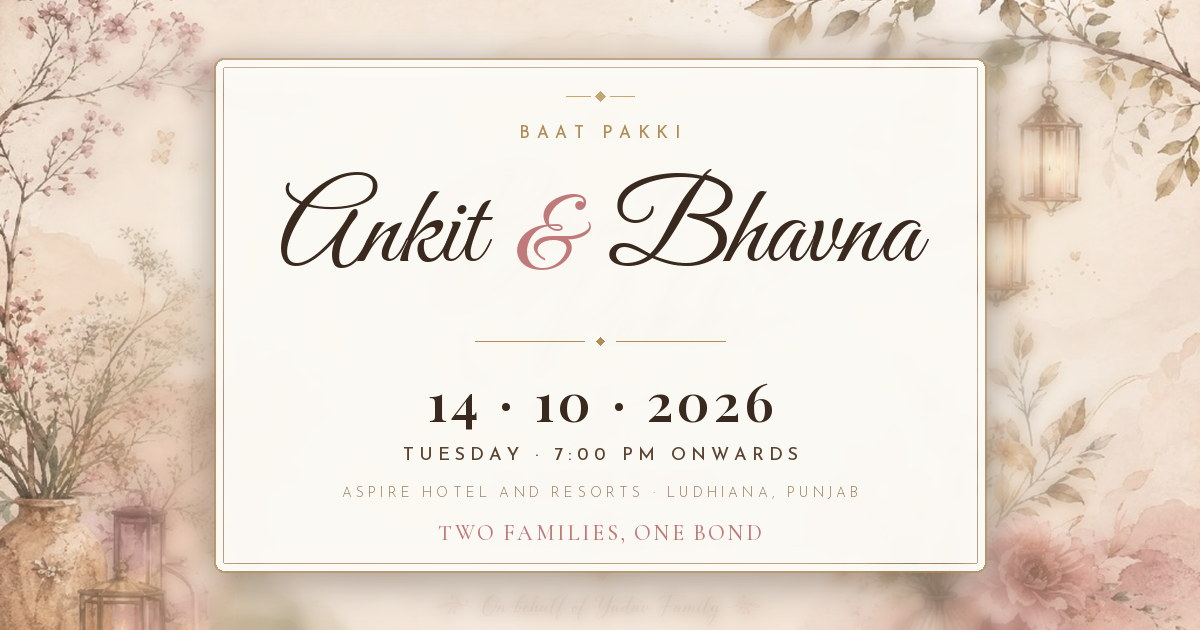
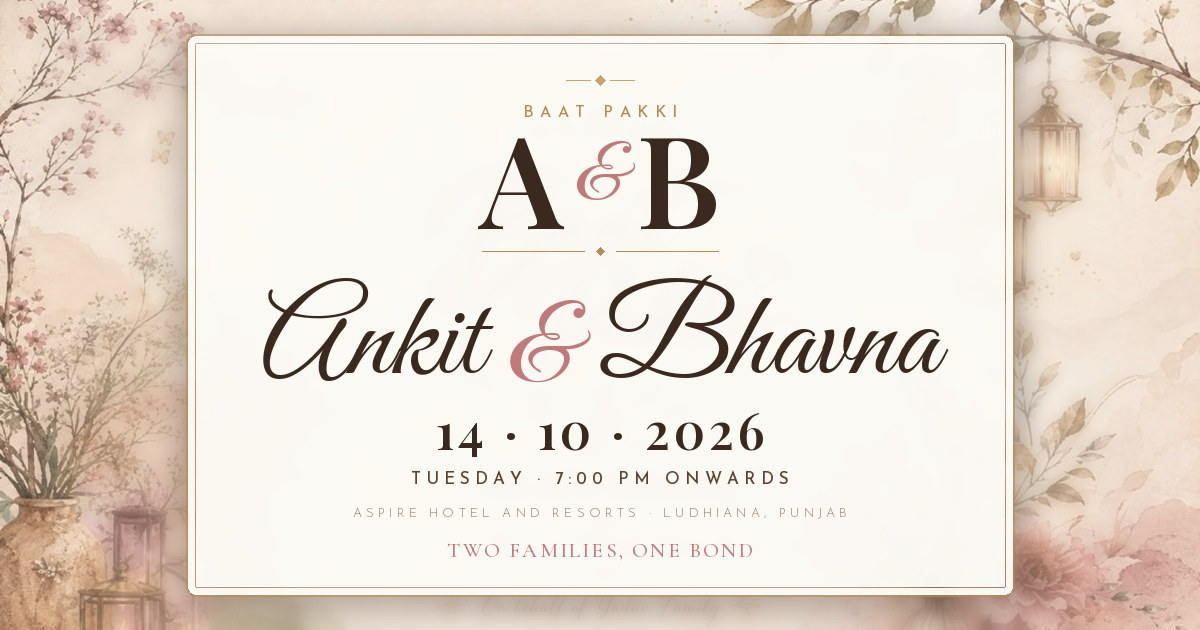
feat(og): add A & B monogram as the hero of the link previews
Promotes the monogram from the 180x180 apple-touch-icon onto the OG cards
themselves, sitting above the script names. Two initials keep their weight
at the ~400px width a WhatsApp preview renders at, where the thin strokes
of the full script names start to fade. The names stay directly beneath so
nothing is lost.

Initials derive from the first letter of each name in src/config/invite.ts
rather than being hardcoded, so the monogram follows a config change.

Spacing is now measured from real glyph extents rather than point sizes.
The 'lm' anchor sits at the middle of the ascender-to-descender box, not
the middle of the ink, and Great Vibes throws flourishes well outside its
em box - so nominal row heights let the divider rule cut straight through
the monogram and the script ascenders. stack() now takes measured heights
and each row re-centres itself on its own ink.

The square card swaps its stacked Ankit / & / Bhavna column for the
monogram plus a single names line, matching the wide card's hierarchy.

og:image:alt and twitter:image:alt updated to name the monogram.

Changed region(s): [[0.1233, 0.0302, 0.8633, 0.9952]]

diff --git a/dist/index.html b/dist/index.html
@@ -31,14 +31,14 @@
     <meta property="og:image:type" content="image/jpeg" />
     <meta property="og:image:width" content="1200" />
     <meta property="og:image:height" content="630" />
-    <meta property="og:image:alt" content="Baat Pakki — Ankit &amp; Bhavna, 14 October 2026, 7 PM onwards at Aspire Hotel and Resorts, Ludhiana" />
+    <meta property="og:image:alt" content="Baat Pakki — A &amp; B, Ankit &amp; Bhavna, 14 October 2026, 7 PM onwards at Aspire Hotel and Resorts, Ludhiana" />
     <!-- Square second image — several WhatsApp/Android clients prefer a 1:1 thumbnail -->
     <meta property="og:image" content="https://bhavna-yadav-ankit-yadav.invitingyou.top/og-baat-pakki-800x800.jpg" />
     <meta property="og:image:secure_url" content="https://bhavna-yadav-ankit-yadav.invitingyou.top/og-baat-pakki-800x800.jpg" />
     <meta property="og:image:type" content="image/jpeg" />
     <meta property="og:image:width" content="800" />
     <meta property="og:image:height" content="800" />
-    <meta property="og:image:alt" content="Baat Pakki — Ankit &amp; Bhavna wedding, 14 October 2026" />
+    <meta property="og:image:alt" content="Baat Pakki — A &amp; B, the wedding of Ankit &amp; Bhavna on 14 October 2026" />
     <meta property="og:updated_time" content="2026-09-26T00:00:00+05:30" />
 
     <!-- Twitter / X -->
@@ -48,7 +48,7 @@
     <meta name="twitter:title" content="Ankit &amp; Bhavna • 14 October 2026 • Aspire Hotel, Ludhiana" />
     <meta name="twitter:description" content="Two families, one bond. Join Ankit &amp; Bhavna on Tuesday, 14th October 2026, 7:00 PM onwards at Aspire Hotel and Resorts, Ludhiana." />
     <meta name="twitter:image" content="https://bhavna-yadav-ankit-yadav.invitingyou.top/og-baat-pakki-1200x630.jpg" />
-    <meta name="twitter:image:alt" content="Baat Pakki — Ankit &amp; Bhavna, 14 October 2026" />
+    <meta name="twitter:image:alt" content="Baat Pakki — A &amp; B, Ankit &amp; Bhavna, 14 October 2026" />
     <meta name="twitter:url" content="https://bhavna-yadav-ankit-yadav.invitingyou.top/" />
 
     <!-- Additional WhatsApp-friendly / SEO tags -->

diff --git a/index.html b/index.html
@@ -31,14 +31,14 @@
     <meta property="og:image:type" content="image/jpeg" />
     <meta property="og:image:width" content="1200" />
     <meta property="og:image:height" content="630" />
-    <meta property="og:image:alt" content="Baat Pakki — Ankit &amp; Bhavna, 14 October 2026, 7 PM onwards at Aspire Hotel and Resorts, Ludhiana" />
+    <meta property="og:image:alt" content="Baat Pakki — A &amp; B, Ankit &amp; Bhavna, 14 October 2026, 7 PM onwards at Aspire Hotel and Resorts, Ludhiana" />
     <!-- Square second image — several WhatsApp/Android clients prefer a 1:1 thumbnail -->
     <meta property="og:image" content="https://bhavna-yadav-ankit-yadav.invitingyou.top/og-baat-pakki-800x800.jpg" />
     <meta property="og:image:secure_url" content="https://bhavna-yadav-ankit-yadav.invitingyou.top/og-baat-pakki-800x800.jpg" />
     <meta property="og:image:type" content="image/jpeg" />
     <meta property="og:image:width" content="800" />
     <meta property="og:image:height" content="800" />
-    <meta property="og:image:alt" content="Baat Pakki — Ankit &amp; Bhavna wedding, 14 October 2026" />
+    <meta property="og:image:alt" content="Baat Pakki — A &amp; B, the wedding of Ankit &amp; Bhavna on 14 October 2026" />
     <meta property="og:updated_time" content="2026-09-26T00:00:00+05:30" />
 
     <!-- Twitter / X -->
@@ -48,7 +48,7 @@
     <meta name="twitter:title" content="Ankit &amp; Bhavna • 14 October 2026 • Aspire Hotel, Ludhiana" />
     <meta name="twitter:description" content="Two families, one bond. Join Ankit &amp; Bhavna on Tuesday, 14th October 2026, 7:00 PM onwards at Aspire Hotel and Resorts, Ludhiana." />
     <meta name="twitter:image" content="https://bhavna-yadav-ankit-yadav.invitingyou.top/og-baat-pakki-1200x630.jpg" />
-    <meta name="twitter:image:alt" content="Baat Pakki — Ankit &amp; Bhavna, 14 October 2026" />
+    <meta name="twitter:image:alt" content="Baat Pakki — A &amp; B, Ankit &amp; Bhavna, 14 October 2026" />
     <meta name="twitter:url" content="https://bhavna-yadav-ankit-yadav.invitingyou.top/" />
 
     <!-- Additional WhatsApp-friendly / SEO tags -->

diff --git a/scripts/generate-og.py b/scripts/generate-og.py
@@ -81,6 +81,7 @@ def read_config():
         "time": field("timeLine"),
         "venue": venue_name.group(1) if venue_name else "",
         "city": venue_city.group(1) if venue_city else "",
+        "initials": (groom[0].upper(), bride[0].upper()),
     }
 
 
@@ -204,19 +205,45 @@ def background(w, h, fy, blur, blur_amt, warm=52, vig=46):
     return vignette(base, vig)
 
 
+def ink_box(f, text, lift=0.0):
+    """(top, bottom) offsets of a text run's real ink, relative to the point it
+    is drawn at. Pass `lift` for runs drawn on a shifted baseline.
+
+    Script faces like Great Vibes have ascenders and flourishes that reach well
+    outside the nominal em box, and the 'lm' anchor sits at the middle of the
+    ascender-to-descender box rather than the middle of the ink - so spacing has
+    to come from measured glyphs, not from the point size.
+    """
+    _, y0, _, y1 = f.getbbox(text, anchor="lm")
+    return y0 + lift, y1 + lift
+
+
 def stack(box, rows):
-    """Lay out (height, gap, draw) rows vertically centred inside box."""
+    """Lay out (measure, gap, draw) rows vertically centred inside box.
+
+    `measure` is a fixed height or a callable returning the row's true ink
+    height. Each draw fn receives the centre of its own ink and is responsible
+    for centring on it.
+    """
     x0, y0, x1, y1 = box
-    total = sum(h for h, _, _ in rows) + sum(g for _, g, _ in rows)
+    heights = [(m() if callable(m) else m) for m, _, _ in rows]
+    total = sum(heights) + sum(g for _, g, _ in rows)
     y = y0 + ((y1 - y0) - total) / 2
-    for h, g, fn in rows:
+    for h, (_, g, fn) in zip(heights, rows):
         y += h / 2
         fn(y)
         y += h / 2 + g
 
 
-def names_row(d, cx, y, max_w, max_size, cfg):
-    """`Groom & Bride` in Great Vibes with a rose ampersand, auto-fitted."""
+def fit_script(text, max_w, max_size, step=4):
+    size = max_size
+    while size > 24 and font(F_SCRIPT, size).getlength(text) > max_w:
+        size -= step
+    return font(F_SCRIPT, size), size
+
+
+def names_metrics(max_w, max_size, cfg):
+    """Resolve fitted fonts, gaps and the true ink span of the name line."""
     gap = max_size * 0.20
     for size in range(max_size, 24, -4):
         fa = font(F_SCRIPT, size)
@@ -230,9 +257,21 @@ def names_row(d, cx, y, max_w, max_size, cfg):
             <= max_w
         ):
             break
-    wa = fa.getlength(cfg["groom"])
-    wb = fb.getlength("&")
-    wc = fa.getlength(cfg["bride"])
+    lift = size * 0.06
+    ta, ba = ink_box(fa, cfg["groom"])
+    tb, bb = ink_box(fb, "&", lift)
+    return fa, fb, gap, size, min(ta, tb), max(ba, bb)
+
+
+def names_row(d, cx, y, max_w, max_size, cfg):
+    """`Groom & Bride` in Great Vibes with a rose ampersand, auto-fitted.
+
+    `y` is the centre of the line's ink, so the row above and below can be
+    spaced off real glyph extents.
+    """
+    fa, fb, gap, size, top, bot = names_metrics(max_w, max_size, cfg)
+    y -= (top + bot) / 2  # re-centre from the em box onto the ink
+    wa, wb, wc = fa.getlength(cfg["groom"]), fb.getlength("&"), fa.getlength(cfg["bride"])
     x = cx - (wa + gap + wb + gap + wc) / 2
     d.text((x, y), cfg["groom"], font=fa, fill=INK, anchor="lm")
     x += wa + gap
@@ -241,12 +280,56 @@ def names_row(d, cx, y, max_w, max_size, cfg):
     d.text((x, y), cfg["bride"], font=fa, fill=INK, anchor="lm")
 
 
-def one_name(d, cx, y, max_w, max_size, name):
+def names_height(max_w, max_size, cfg):
+    _, _, _, _, top, bot = names_metrics(max_w, max_size, cfg)
+    return bot - top
+
+
+def monogram_metrics(max_w, max_size, initials, gap_ratio=0.10, amp_ratio=0.62):
+    """Resolve fitted fonts, gaps and the true ink span of the `A & B` monogram."""
+    left, right = initials
+    gap = max_size * gap_ratio
     size = max_size
-    while size > 20 and font(F_SCRIPT, size).getlength(name) > max_w:
-        size -= 4
-    f = font(F_SCRIPT, size)
-    d.text((cx - f.getlength(name) / 2, y), name, font=f, fill=INK, anchor="lm")
+    while size > 16:
+        fa = font(F_DISPLAY, size, "SemiBold")
+        fb = font(F_SCRIPT, int(size * amp_ratio))
+        if fa.getlength(left) + gap + fb.getlength("&") + gap + fa.getlength(right) <= max_w:
+            break
+        size -= 2
+    fa = font(F_DISPLAY, size, "SemiBold")
+    fb = font(F_SCRIPT, int(size * amp_ratio))
+    lift = -size * 0.02  # the ampersand is drawn slightly raised
+    ta, ba = ink_box(fa, left + right)
+    tb, bb = ink_box(fb, "&", lift)
+    return fa, fb, gap, size, min(ta, tb), max(ba, bb)
+
+
+def monogram(d, cx, y, max_w, max_size, initials, gap_ratio=0.10, amp_ratio=0.62):
+    """`A & B` — Playfair caps with a rose script ampersand, auto-fitted.
+
+    Two initials hold their weight at thumbnail sizes, where the thin strokes
+    of the full script names start to disappear.
+    """
+    left, right = initials
+    fa, fb, gap, size, top, bot = monogram_metrics(
+        max_w, max_size, initials, gap_ratio, amp_ratio
+    )
+    y -= (top + bot) / 2  # re-centre from the em box onto the ink
+    wa, wb, wc = fa.getlength(left), fb.getlength("&"), fa.getlength(right)
+    x = cx - (wa + gap + wb + gap + wc) / 2
+    d.text((x, y), left, font=fa, fill=INK, anchor="lm")
+    x += wa + gap
+    d.text((x, y + size * 0.02), "&", font=fb, fill=ROSE, anchor="lm")
+    x += wb + gap
+    d.text((x, y), right, font=fa, fill=INK, anchor="lm")
+    return size
+
+
+def monogram_height(max_w, max_size, initials, gap_ratio=0.10, amp_ratio=0.62):
+    _, _, _, _, top, bot = monogram_metrics(
+        max_w, max_size, initials, gap_ratio, amp_ratio
+    )
+    return bot - top
 
 
 def save_jpeg(img, path, quality=88):
@@ -261,30 +344,34 @@ def build_wide(cfg, out):
     """1200x630 — the ratio WhatsApp renders a link preview at full width."""
     w, h = 1200, 630
     base = background(w, h, fy=0.42, blur=7, blur_amt=0.92)
-    box = (214, 58, 986, 572)
+    box = (186, 34, 1014, 596)
     panel(base, box)
     d = ImageDraw.Draw(base)
     cx = (box[0] + box[2]) / 2
     inner = (box[2] - box[0]) - 118
+    mono_max, names_max = 128, 124
 
     stack(box, [
-        (26, 12, lambda y: ornament(d, cx, y, GOLD_SOFT)),
-        (26, 12, lambda y: draw_tracked(
-            d, cx, y, "BAAT PAKKI", font(F_SANS, 17, "Medium"), GOLD, 6.5)),
-        (152, 20, lambda y: names_row(d, cx, y, inner, 158, cfg)),
-        (20, 20, lambda y: rule(d, cx, y, 250, GOLD_RULE)),
-        (58, 13, lambda y: draw_tracked(
-            d, cx, y, "14 \u00b7 10 \u00b7 2026",
-            font(F_DISPLAY, 53, "SemiBold"), INK, 4)),
-        (26, 13, lambda y: draw_tracked(
-            d, cx, y, "TUESDAY \u00b7 7:00 PM ONWARDS",
-            font(F_SANS, 18, "Medium"), INK_SOFT, 5)),
-        (24, 15, lambda y: draw_tracked(
-            d, cx, y, "%s \u00b7 %s" % (cfg["venue"].upper(), cfg["city"].upper()),
-            font(F_SANS, 14, "Light"), HAZE, 4.2)),
-        (26, 0, lambda y: draw_tracked(
+        (26, 8, lambda y: ornament(d, cx, y, GOLD_SOFT)),
+        (24, 10, lambda y: draw_tracked(
+            d, cx, y, "BAAT PAKKI", font(F_SANS, 16, "Medium"), GOLD, 6.5)),
+        (lambda: monogram_height(inner, mono_max, cfg["initials"]), 14,
+         lambda y: monogram(d, cx, y, inner, mono_max, cfg["initials"])),
+        (16, 18, lambda y: rule(d, cx, y, 236, GOLD_RULE)),
+        (lambda: names_height(inner, names_max, cfg), 18,
+         lambda y: names_row(d, cx, y, inner, names_max, cfg)),
+        (56, 11, lambda y: draw_tracked(
+            d, cx, y, "14 · 10 · 2026",
+            font(F_DISPLAY, 50, "SemiBold"), INK, 4)),
+        (25, 10, lambda y: draw_tracked(
+            d, cx, y, "TUESDAY · 7:00 PM ONWARDS",
+            font(F_SANS, 17, "Medium"), INK_SOFT, 5)),
+        (23, 12, lambda y: draw_tracked(
+            d, cx, y, "%s · %s" % (cfg["venue"].upper(), cfg["city"].upper()),
+            font(F_SANS, 13, "Light"), HAZE, 4.2)),
+        (25, 0, lambda y: draw_tracked(
             d, cx, y, "TWO FAMILIES, ONE BOND",
-            font(F_SERIF, 22, "Medium"), ROSE, 2.2)),
+            font(F_SERIF, 21, "Medium"), ROSE, 2.2)),
     ])
     save_jpeg(base, out)
 
@@ -293,29 +380,30 @@ def build_square(cfg, out):
     """800x800 — square fallback for clients that prefer a 1:1 thumbnail."""
     w = h = 800
     base = background(w, h, fy=0.5, blur=8, blur_amt=0.95, warm=54, vig=50)
-    box = (58, 60, 742, 740)
+    box = (52, 48, 748, 752)
     panel(base, box)
     d = ImageDraw.Draw(base)
     cx = (box[0] + box[2]) / 2
     inner = (box[2] - box[0]) - 104
+    mono_max, names_max = 150, 130
 
     stack(box, [
-        (28, 12, lambda y: ornament(d, cx, y, GOLD_SOFT)),
-        (28, 12, lambda y: draw_tracked(
-            d, cx, y, "BAAT PAKKI", font(F_SANS, 17, "Medium"), GOLD, 6.5)),
-        (124, 4, lambda y: one_name(d, cx, y, inner, 142, cfg["groom"])),
-        (62, 2, lambda y: draw_tracked(
-            d, cx, y, "&", font(F_SCRIPT, 78), ROSE)),
-        (124, 20, lambda y: one_name(d, cx, y, inner, 142, cfg["bride"])),
-        (20, 22, lambda y: rule(d, cx, y, 230, GOLD_RULE)),
-        (54, 12, lambda y: draw_tracked(
-            d, cx, y, "14 \u00b7 10 \u00b7 2026",
-            font(F_DISPLAY, 48, "SemiBold"), INK, 4)),
+        (30, 12, lambda y: ornament(d, cx, y, GOLD_SOFT)),
         (26, 12, lambda y: draw_tracked(
-            d, cx, y, "TUESDAY \u00b7 7:00 PM ONWARDS",
+            d, cx, y, "BAAT PAKKI", font(F_SANS, 16, "Medium"), GOLD, 6.5)),
+        (lambda: monogram_height(inner, mono_max, cfg["initials"]), 20,
+         lambda y: monogram(d, cx, y, inner, mono_max, cfg["initials"])),
+        (18, 20, lambda y: rule(d, cx, y, 250, GOLD_RULE)),
+        (lambda: names_height(inner, names_max, cfg), 22,
+         lambda y: names_row(d, cx, y, inner, names_max, cfg)),
+        (58, 14, lambda y: draw_tracked(
+            d, cx, y, "14 · 10 · 2026",
+            font(F_DISPLAY, 52, "SemiBold"), INK, 4)),
+        (27, 12, lambda y: draw_tracked(
+            d, cx, y, "TUESDAY · 7:00 PM ONWARDS",
             font(F_SANS, 17, "Medium"), INK_SOFT, 5)),
-        (24, 14, lambda y: draw_tracked(
-            d, cx, y, "%s \u00b7 %s" % (cfg["venue"].upper(), cfg["city"].upper()),
+        (25, 15, lambda y: draw_tracked(
+            d, cx, y, "%s · %s" % (cfg["venue"].upper(), cfg["city"].upper()),
             font(F_SANS, 13, "Light"), HAZE, 4.2)),
         (26, 0, lambda y: draw_tracked(
             d, cx, y, "TWO FAMILIES, ONE BOND",
@@ -324,7 +412,7 @@ def build_square(cfg, out):
     save_jpeg(base, out)
 
 
-def build_icon(out):
+def build_icon(cfg, out):
     """180x180 apple-touch-icon — a monogram, since the script caps are too
     wide to fit legibly at this size."""
     s = 180
@@ -340,21 +428,9 @@ def build_icon(out):
         (16, 16, s - 17, s - 17), radius=23, outline=(GOLD[0], GOLD[1], GOLD[2], 70)
     )
 
-    cx, gap = s / 2, 7
-    for size in range(60, 18, -2):
-        fa = font(F_DISPLAY, size, "SemiBold")
-        fb = font(F_SCRIPT, int(size * 0.62))
-        if fa.getlength("A") + gap + fb.getlength("&") + gap + fa.getlength("B") <= 118:
-            break
-    wa, wb = fa.getlength("A"), fb.getlength("&")
-    wc = fa.getlength("B")
-    x = cx - (wa + gap + wb + gap + wc) / 2
-    d.text((x, 76), "A", font=fa, fill=INK, anchor="lm")
-    x += wa + gap
-    d.text((x, 74), "&", font=fb, fill=ROSE, anchor="lm")
-    x += wb + gap
-    d.text((x, 76), "B", font=fa, fill=INK, anchor="lm")
-    rule(d, cx, 112, 84, GOLD_RULE)
+    cx = s / 2
+    monogram(d, cx, 80, 132, 74, cfg["initials"], gap_ratio=0.12)
+    rule(d, cx, 118, 88, GOLD_RULE)
     draw_tracked(d, cx, 136, "14 \u00b7 10 \u00b7 26", font(F_SANS, 14, "Medium"), GOLD, 2.6)
 
     base.convert("RGB").save(out, "PNG", optimize=True)
@@ -369,7 +445,7 @@ def main():
     print("groom=%s  bride=%s" % (cfg["groom"], cfg["bride"]))
     build_wide(cfg, os.path.join(PUBLIC, "og-baat-pakki-1200x630.jpg"))
     build_square(cfg, os.path.join(PUBLIC, "og-baat-pakki-800x800.jpg"))
-    build_icon(os.path.join(PUBLIC, "apple-touch-icon.png"))
+    build_icon(cfg, os.path.join(PUBLIC, "apple-touch-icon.png"))
 
 
 if __name__ == "__main__":
